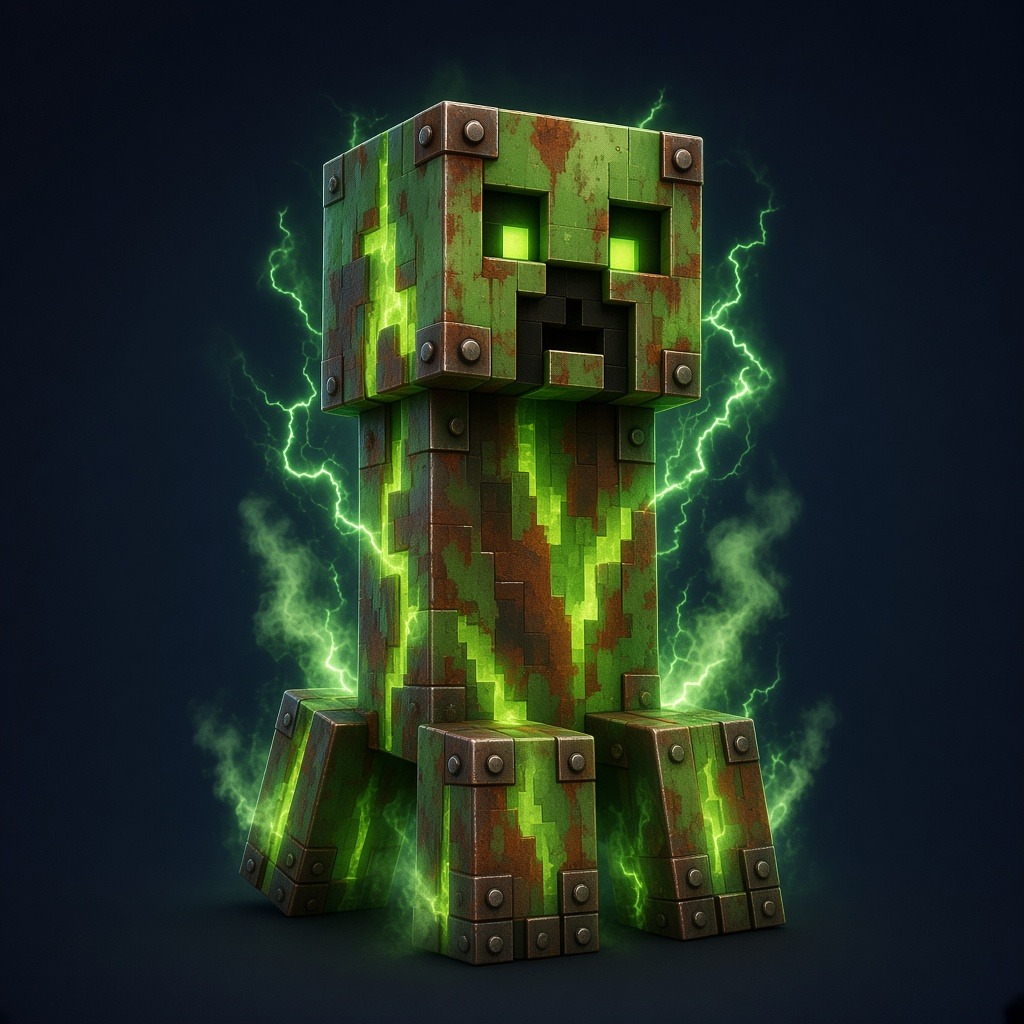
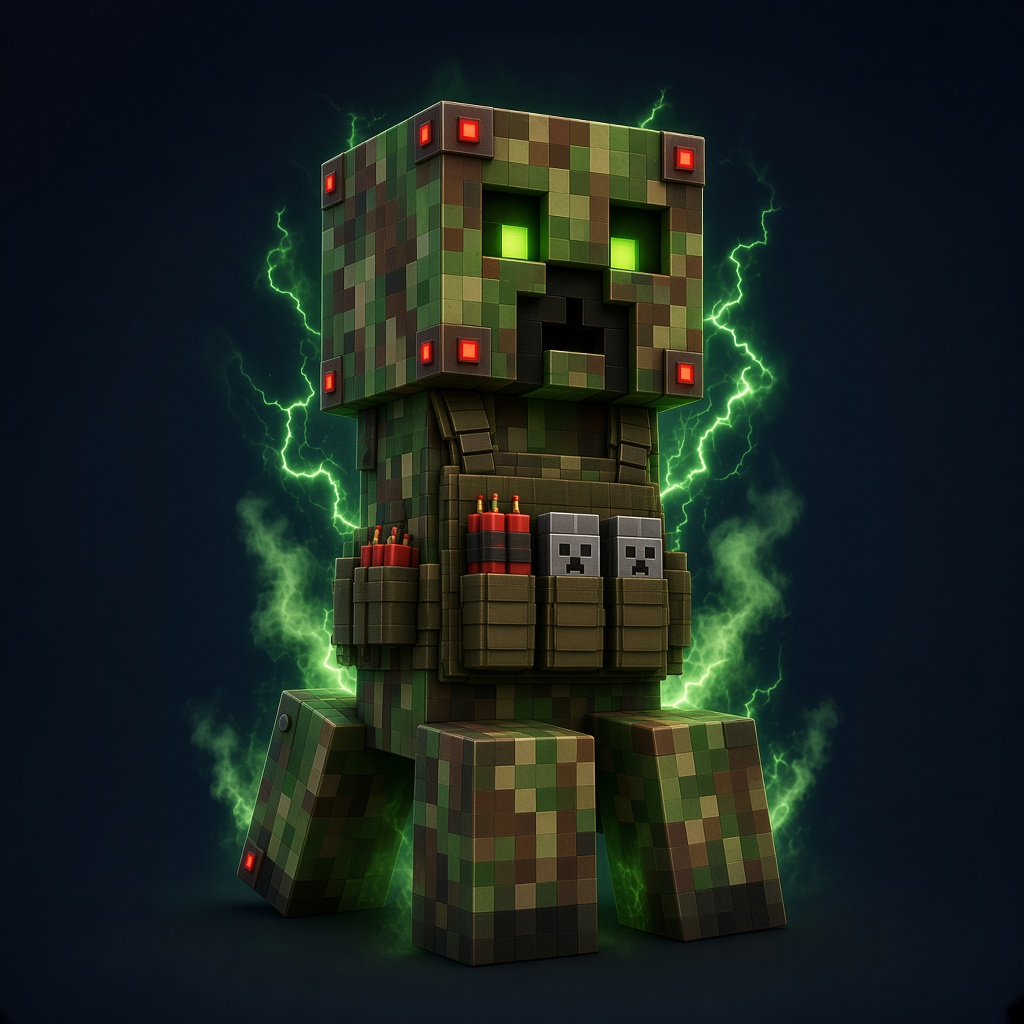
Redraw NightMare and swamp portraits to match the resource pack Mephisto silhouette and military camo.

Changed region(s): [[0.2188, 0.0938, 0.7812, 0.9375], [0.7188, 0.2188, 0.75, 0.2812], [0.25, 0.2188, 0.2812, 0.2812]]

diff --git a/src/data/monsterCatalog.ts b/src/data/monsterCatalog.ts
@@ -692,8 +692,8 @@ export const MONSTERS: MonsterDef[] = [
     entity: 'zombie',
     hp: 25000,
     replaces: 'undead',
-    en: { name: 'DrugAddict', equipment: 'Green glazed terracotta head, green leather armor, potion and brewing stand, very fast' },
-    ko: { name: '약물중독자', equipment: '초록 유광 테라코타 머리, 초록 가죽 갑옷, 물약과 양조기, 매우 빠름' },
+    en: { name: 'DrugAddict', equipment: 'Green glazed-terracotta helmet, woodland camo military uniform, potion and brewing stand, very fast' },
+    ko: { name: '약물중독자', equipment: '초록 유광 테라코타 투구, 우드랜드 카모 군복, 물약과 양조기, 매우 빠름' },
   },
   {
     id: 'patrol',
@@ -701,8 +701,8 @@ export const MONSTERS: MonsterDef[] = [
     entity: 'bogged',
     hp: 23000,
     replaces: 'undead',
-    en: { name: 'Patrol', equipment: 'Mangrove leaves head, green leather armor, bow' },
-    ko: { name: '보초병', equipment: '맹그로브 잎 머리, 초록 가죽 갑옷, 활' },
+    en: { name: 'Patrol', equipment: 'Mangrove-leaf ghillie helmet, woodland camo military uniform, bow' },
+    ko: { name: '보초병', equipment: '맹그로브 잎 길리 투구, 우드랜드 카모 군복, 활' },
   },
   {
     id: 'giantSlime',
@@ -719,8 +719,8 @@ export const MONSTERS: MonsterDef[] = [
     entity: 'witch',
     hp: 20000,
     replaces: 'undead',
-    en: { name: 'Grenadier', equipment: 'None' },
-    ko: { name: '척탄병', equipment: '없음' },
+    en: { name: 'Grenadier', equipment: 'Woodland camo military uniform, potion grenades' },
+    ko: { name: '척탄병', equipment: '우드랜드 카모 군복, 물약 수류탄' },
   },
   {
     id: 'venomSpider',
@@ -728,8 +728,8 @@ export const MONSTERS: MonsterDef[] = [
     entity: 'caveSpider',
     hp: 18000,
     replaces: 'spider',
-    en: { name: 'VenomSpider', equipment: 'None, very fast' },
-    ko: { name: '맹독거미', equipment: '없음, 매우 빠름' },
+    en: { name: 'VenomSpider', equipment: 'Olive camouflage carapace, very fast' },
+    ko: { name: '맹독거미', equipment: '올리브 위장 껍질, 매우 빠름' },
   },
   {
     id: 'autoNuker',
@@ -737,8 +737,8 @@ export const MONSTERS: MonsterDef[] = [
     entity: 'creeper',
     hp: 20000,
     replaces: 'creeper',
-    en: { name: 'AutoNuker', equipment: 'None' },
-    ko: { name: '자폭기', equipment: '없음' },
+    en: { name: 'AutoNuker', equipment: 'Woodland camo demolition creeper' },
+    ko: { name: '자폭기', equipment: '우드랜드 카모 자폭 크리퍼' },
   },
   {
     id: 'scout',
@@ -746,8 +746,8 @@ export const MONSTERS: MonsterDef[] = [
     entity: 'enderman',
     hp: 25000,
     replaces: 'enderman',
-    en: { name: 'Scout', equipment: 'None' },
-    ko: { name: '척후병', equipment: '없음' },
+    en: { name: 'Scout', equipment: 'Woodland camo scout gear on an enderman' },
+    ko: { name: '척후병', equipment: '엔더맨 체형의 우드랜드 카모 척후 군장' },
   },
 
   // Wild (WildMobsSpawn)
@@ -965,8 +965,8 @@ export const MONSTERS: MonsterDef[] = [
     entity: 'skeleton',
     hp: 100000,
     kind: 'comboBoss',
-    en: { name: 'Terrorist', equipment: 'Netherite armor, custom Fire Aspect III bow and brewing stand' },
-    ko: { name: '테러리스트', equipment: '네더라이트 갑옷, 커스텀 발화 III 활과 양조기' },
+    en: { name: 'Terrorist', equipment: 'Woodland camo tactical netherite (Poison Boss), custom Fire Aspect III bow and brewing stand' },
+    ko: { name: '테러리스트', equipment: '우드랜드 카모 전술 네더라이트(Poison Boss), 커스텀 발화 III 활과 양조기' },
   },
 
   // Raid-world bosses (OverworldRaids / NethercoreRaids / EndercoreRaids / WitherRaids)
@@ -1003,8 +1003,8 @@ export const MONSTERS: MonsterDef[] = [
     entity: 'skeleton',
     kind: 'raidBoss',
     hpScale: 1.2,
-    en: { name: 'NightMare', equipment: 'Black Mojang-pattern banner, custom bow. Overworld raid phase 2 after NightCorpsCommander' },
-    ko: { name: '악몽의형상', equipment: '모장 문양 검은 깃발, 커스텀 활. 밤의군단장 다음 오버월드 레이드 2단계' },
+    en: { name: 'NightMare', equipment: 'Legless Mephisto-like form, black banner hood, custom bow. Overworld raid phase 2 after NightCorpsCommander' },
+    ko: { name: '악몽의형상', equipment: '다리 없는 메피스토형, 검은 깃발 두건, 커스텀 활. 밤의군단장 다음 오버월드 레이드 2단계' },
   },
   {
     id: 'theBeast',
@@ -1030,8 +1030,8 @@ export const MONSTERS: MonsterDef[] = [
     entity: 'skeleton',
     kind: 'raidBoss',
     hpScale: 1.2,
-    en: { name: 'TheApocalyptic', equipment: 'Netherite armor, custom bow. Overworld raid phase 2 after Terrorist' },
-    ko: { name: '종말론자', equipment: '네더라이트 갑옷, 커스텀 활. 테러리스트 다음 오버월드 레이드 2단계' },
+    en: { name: 'TheApocalyptic', equipment: 'Heavier woodland camo tactical netherite (Poison Boss 2), custom bow. Overworld raid phase 2 after Terrorist' },
+    ko: { name: '종말론자', equipment: '강화 우드랜드 카모 전술 네더라이트(Poison Boss 2), 커스텀 활. 테러리스트 다음 오버월드 레이드 2단계' },
   },
   {
     id: 'warpedDemon',
